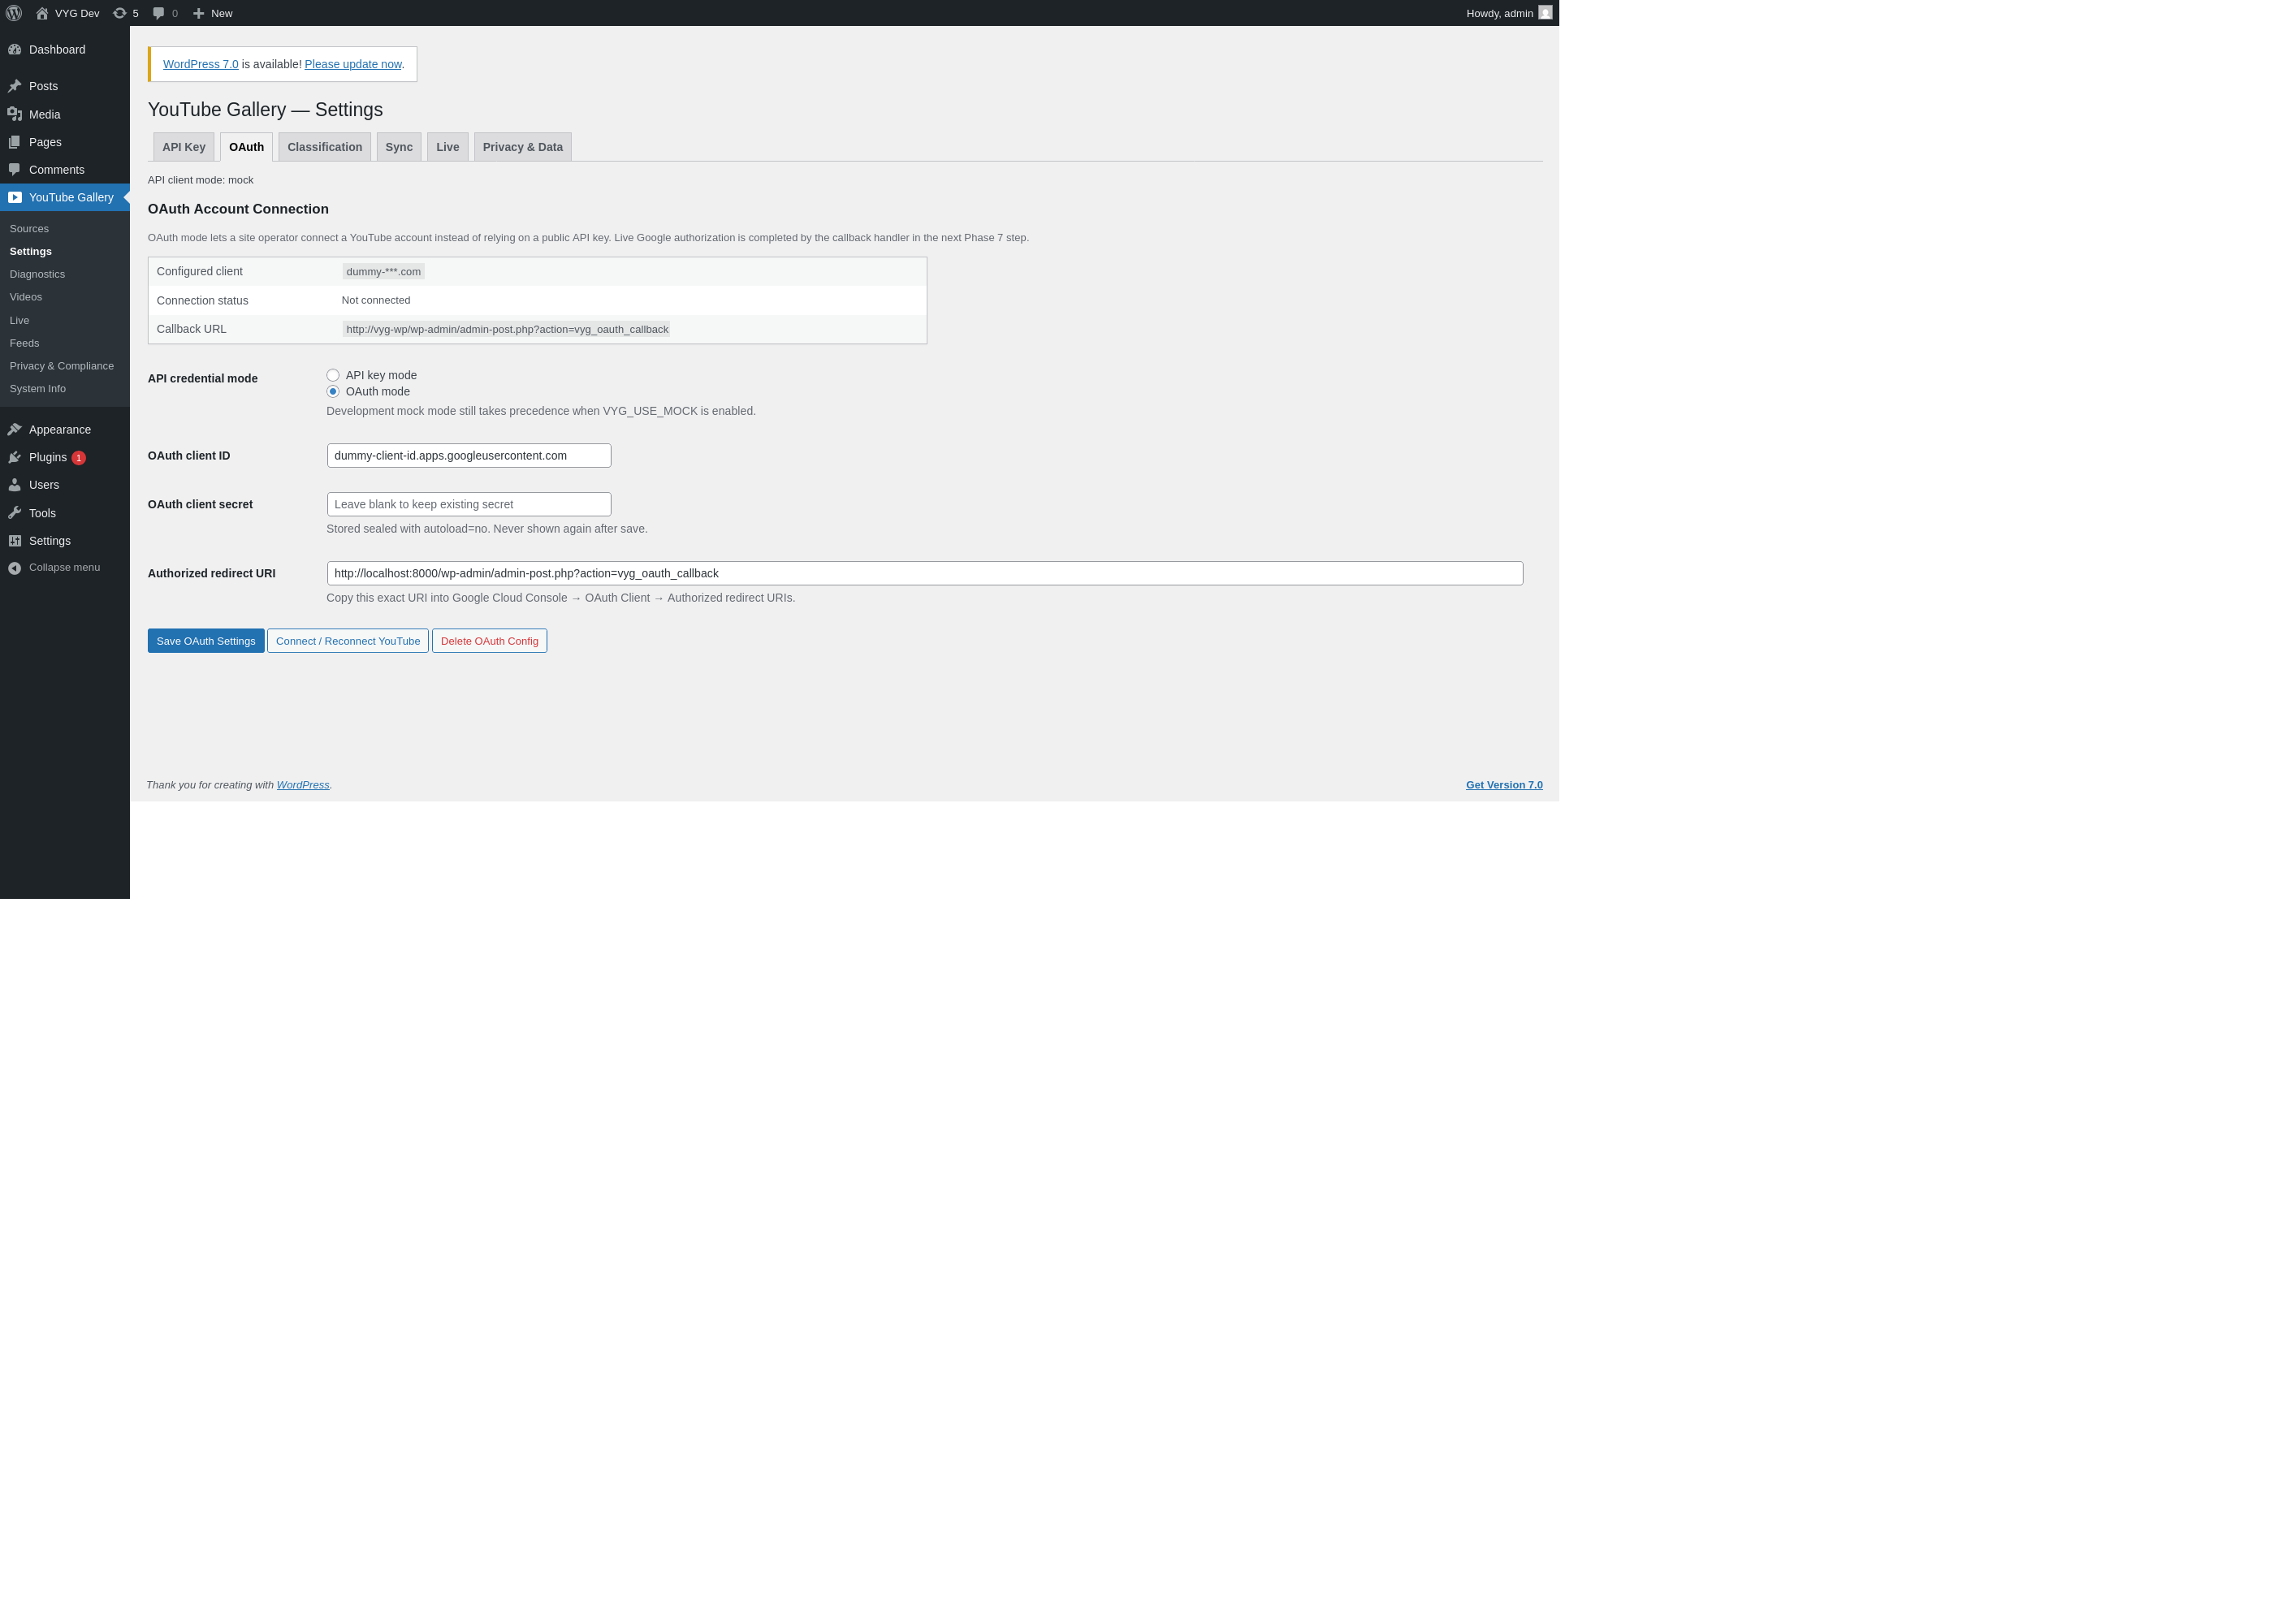
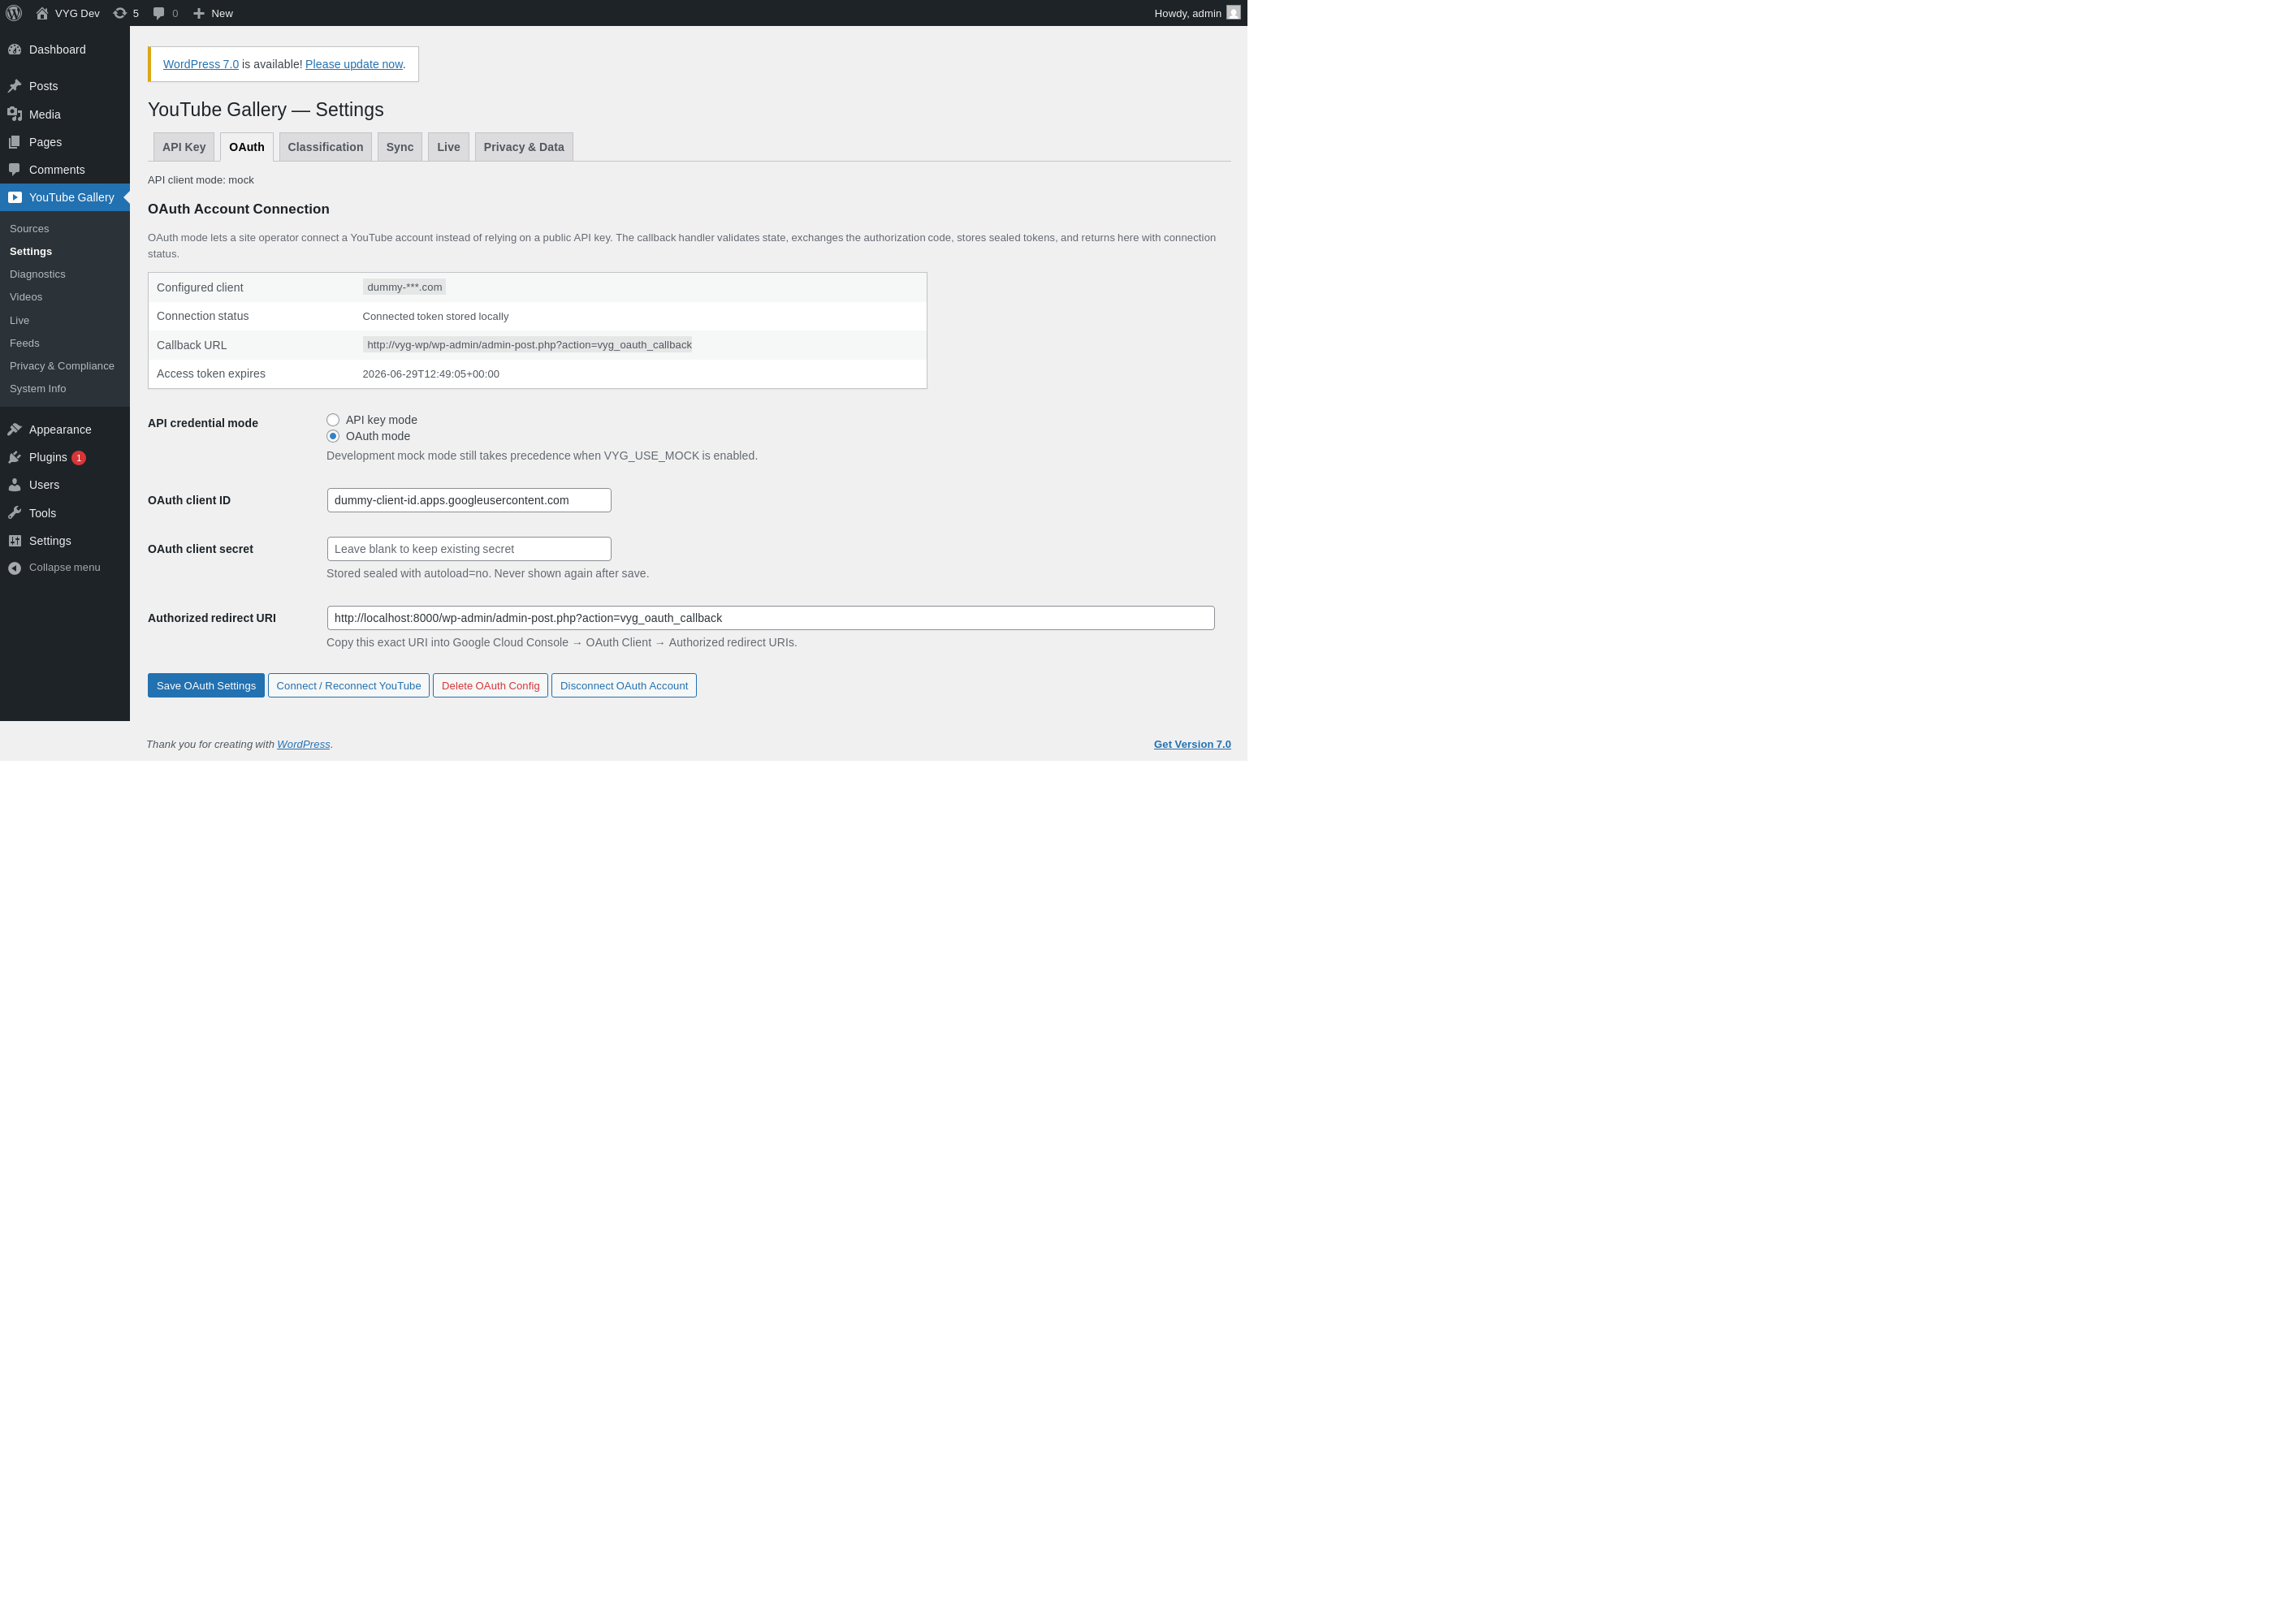
phase-7: add OAuth disconnect flow
- Add OAuth disconnect admin-post handler and settings link
- Revoke Google OAuth token when possible and always delete local token state
- Reset api_mode to api_key after OAuth disconnect
- Make global Privacy disconnect clear OAuth tokens while preserving local metadata
- Add mocked revoke success/failure cleanup tests
- Refresh Camofox OAuth screenshot with connected disconnect controls

Validation:
- php -l touched PHP files inside vyg-wp: no syntax errors
- make test-unit: 193 tests, 495 assertions
- live no-real-Google smoke: dummy OAuth tokens sealed, disconnect URL registered, cleanup verified

diff --git a/src/Admin/OAuthController.php b/src/Admin/OAuthController.php
@@ -31,6 +31,7 @@ defined( 'ABSPATH' ) || exit;
 final class OAuthController {
 
     public const NONCE_ACTION_CONNECT = 'vyg_oauth_connect';
+    public const NONCE_ACTION_DISCONNECT = 'vyg_oauth_disconnect';
 
     public function __construct(
         private readonly OAuthClient $oauth,
@@ -46,6 +47,16 @@ final class OAuthController {
                 admin_url( 'admin-post.php' )
             ),
             self::NONCE_ACTION_CONNECT
+        );
+    }
+
+    public function disconnect_url(): string {
+        return wp_nonce_url(
+            add_query_arg(
+                array( 'action' => 'vyg_oauth_disconnect' ),
+                admin_url( 'admin-post.php' )
+            ),
+            self::NONCE_ACTION_DISCONNECT
         );
     }
 
@@ -116,6 +127,28 @@ final class OAuthController {
         }
     }
 
+
+    /**
+     * Revoke the Google token if possible, then always remove local token state.
+     */
+    public function disconnect_redirect_url(): string {
+        $revoked = false;
+        try {
+            $revoked = $this->oauth->revoke_token( '' );
+        } catch ( ApiException $e ) {
+            $this->logger->warning( 'OAuth disconnect revoke failed; deleting local token state anyway', array(
+                'api_error_code' => $e->api_error_code(),
+                'message'        => $e->getMessage(),
+            ) );
+        }
+
+        $this->tokens->delete_tokens();
+        $this->settings->set( 'api_mode', 'api_key' );
+        $this->logger->info( 'OAuth disconnected via admin', array( 'revoked' => $revoked ) );
+
+        return $this->settings_url( $revoked ? 'oauth_revoked' : 'oauth_disconnected' );
+    }
+
     public function handle_connect(): void {
         if ( ! current_user_can( AdminMenu::REQUIRED_CAP ) ) {
             wp_die( esc_html__( 'Insufficient permissions.', 'vector-youtube-gallery' ) );
@@ -142,6 +175,18 @@ final class OAuthController {
             wp_die( esc_html__( 'Insufficient permissions.', 'vector-youtube-gallery' ) );
         }
         wp_safe_redirect( $this->callback_redirect_url( wp_unslash( $_GET ) ) );
+        exit;
+    }
+
+    public function handle_disconnect(): void {
+        if ( ! current_user_can( AdminMenu::REQUIRED_CAP ) ) {
+            wp_die( esc_html__( 'Insufficient permissions.', 'vector-youtube-gallery' ) );
+        }
+        $nonce = isset( $_GET['_wpnonce'] ) ? sanitize_text_field( wp_unslash( $_GET['_wpnonce'] ) ) : '';
+        if ( ! wp_verify_nonce( $nonce, self::NONCE_ACTION_DISCONNECT ) ) {
+            wp_die( esc_html__( 'Nonce check failed.', 'vector-youtube-gallery' ) );
+        }
+        wp_safe_redirect( $this->disconnect_redirect_url() );
         exit;
     }
 

diff --git a/tests/unit/Admin/OAuthControllerTest.php b/tests/unit/Admin/OAuthControllerTest.php
@@ -114,6 +114,34 @@ final class OAuthControllerTest extends TestCase {
         $this->assertSame( 'Connected Test Channel', $stored['connected_account']['channel_title'] );
         $this->assertSame( 'oauth', $this->settings->get( 'api_mode' ) );
     }
+
+    public function test_disconnect_revokes_refresh_token_deletes_local_tokens_and_returns_api_key_mode(): void {
+        $this->tokens->store_tokens( 'access-token', 'refresh-token', 3600 );
+        $this->settings->set( 'api_mode', 'oauth' );
+        $this->http->queuePost( 200, array() );
+
+        $redirect = $this->controller->disconnect_redirect_url();
+
+        $this->assertStringContainsString( 'vyg_notice=oauth_revoked', $redirect );
+        $this->assertCount( 1, $this->http->posts );
+        $this->assertSame( 'https://oauth2.googleapis.com/revoke', $this->http->posts[0]['url'] );
+        $this->assertSame( 'refresh-token', $this->http->posts[0]['args']['body']['token'] );
+        $this->assertNull( $this->tokens->get_tokens() );
+        $this->assertSame( 'api_key', $this->settings->get( 'api_mode' ) );
+    }
+
+    public function test_disconnect_deletes_local_tokens_even_when_revoke_fails(): void {
+        $this->tokens->store_tokens( 'access-token', 'refresh-token', 3600 );
+        $this->settings->set( 'api_mode', 'oauth' );
+        $this->http->queuePost( 500, array( 'error' => 'temporarily_unavailable' ) );
+
+        $redirect = $this->controller->disconnect_redirect_url();
+
+        $this->assertStringContainsString( 'vyg_notice=oauth_disconnected', $redirect );
+        $this->assertCount( 1, $this->http->posts );
+        $this->assertNull( $this->tokens->get_tokens() );
+        $this->assertSame( 'api_key', $this->settings->get( 'api_mode' ) );
+    }
 }
 
 final class CallbackFakeHttp {

diff --git a/src/Compliance/DisconnectManager.php b/src/Compliance/DisconnectManager.php
@@ -17,7 +17,9 @@ declare(strict_types=1);
 
 namespace VectorYT\Gallery\Compliance;
 
+use VectorYT\Gallery\Settings\OAuthTokenRepository;
 use VectorYT\Gallery\Settings\SecretsRepository;
+use VectorYT\Gallery\Settings\SettingsRepository;
 use VectorYT\Gallery\YouTube\ApiClientInterface;
 use VectorYT\Gallery\Logging\Logger;
 
@@ -29,12 +31,14 @@ final class DisconnectManager {
         private readonly SecretsRepository $secrets,
         private readonly ApiClientInterface $api,
         private readonly Logger $logger,
+        private readonly OAuthTokenRepository $oauth_tokens,
+        private readonly SettingsRepository $settings,
     ) {}
 
     /**
      * Disconnect: revoke API key + flip all sources to disconnected.
      *
-     * @return array{revoked:bool, sources_disconnected:int}
+     * @return array{revoked:bool, oauth_tokens_deleted:bool, sources_disconnected:int}
      */
     public function disconnect_all(): array {
         global $wpdb;
@@ -47,8 +51,12 @@ final class DisconnectManager {
             $this->logger->warning( 'DisconnectManager: revoke_token threw', array( 'error' => $e->getMessage() ) );
         }
 
-        // 2. Delete the stored API key from options.
+        // 2. Delete locally-stored credentials. OAuth revoke is best-effort;
+        // local disconnect must still clear token material if the remote revoke
+        // endpoint is unavailable or returns an error.
         $this->secrets->delete_api_key();
+        $oauth_tokens_deleted = $this->oauth_tokens->delete_tokens();
+        $this->settings->set( 'api_mode', 'api_key' );
 
         // 3. Mark every source as disconnected.
         $error_payload = wp_json_encode( array(
@@ -65,10 +73,15 @@ final class DisconnectManager {
             gmdate( 'Y-m-d H:i:s' )
         ) );
 
-        $this->logger->warning( 'DisconnectManager: disconnected', array( 'revoked' => $revoked, 'sources' => $count ) );
+        $this->logger->warning( 'DisconnectManager: disconnected', array(
+            'revoked' => $revoked,
+            'oauth_tokens_deleted' => $oauth_tokens_deleted,
+            'sources' => $count,
+        ) );
 
         return array(
             'revoked'              => $revoked,
+            'oauth_tokens_deleted' => $oauth_tokens_deleted,
             'sources_disconnected' => $count,
         );
     }

diff --git a/src/Admin/SettingsPage.php b/src/Admin/SettingsPage.php
@@ -233,7 +233,9 @@ final class SettingsPage {
             <?php elseif ( 'oauth_deleted' === $notice ) : ?>
                 <div class="notice notice-success is-dismissible"><p><?php echo esc_html__( 'OAuth client configuration and local tokens deleted.', 'vector-youtube-gallery' ); ?></p></div>
             <?php elseif ( 'oauth_disconnected' === $notice ) : ?>
-                <div class="notice notice-success is-dismissible"><p><?php echo esc_html__( 'Local OAuth token state deleted. Google revocation is handled by the disconnect flow in the next Phase 7 step.', 'vector-youtube-gallery' ); ?></p></div>
+                <div class="notice notice-warning is-dismissible"><p><?php echo esc_html__( 'Local OAuth token state deleted. Google token revocation was attempted but did not confirm success.', 'vector-youtube-gallery' ); ?></p></div>
+            <?php elseif ( 'oauth_revoked' === $notice ) : ?>
+                <div class="notice notice-success is-dismissible"><p><?php echo esc_html__( 'Google OAuth token revoked and local token state deleted.', 'vector-youtube-gallery' ); ?></p></div>
             <?php elseif ( 'oauth_connected' === $notice ) : ?>
                 <div class="notice notice-success is-dismissible"><p><?php echo esc_html__( 'YouTube OAuth account connected.', 'vector-youtube-gallery' ); ?></p></div>
             <?php elseif ( 'oauth_error' === $notice ) : ?>
@@ -437,7 +439,7 @@ final class SettingsPage {
                         <button type="submit" name="vyg_oauth_action" value="delete_config" class="button button-link-delete" onclick="return confirm('<?php echo esc_js( __( 'Delete OAuth client configuration and local OAuth tokens?', 'vector-youtube-gallery' ) ); ?>');"><?php echo esc_html__( 'Delete OAuth Config', 'vector-youtube-gallery' ); ?></button>
                     <?php endif; ?>
                     <?php if ( $oauth_status['connected'] ) : ?>
-                        <button type="submit" name="vyg_oauth_action" value="disconnect_local" class="button"><?php echo esc_html__( 'Disconnect Local Token State', 'vector-youtube-gallery' ); ?></button>
+                        <a class="button" href="<?php echo esc_url( wp_nonce_url( add_query_arg( array( 'action' => 'vyg_oauth_disconnect' ), admin_url( 'admin-post.php' ) ), 'vyg_oauth_disconnect' ) ); ?>" onclick="return confirm('<?php echo esc_js( __( 'Revoke the Google OAuth token and delete local OAuth token state?', 'vector-youtube-gallery' ) ); ?>');"><?php echo esc_html__( 'Disconnect OAuth Account', 'vector-youtube-gallery' ); ?></a>
                     <?php endif; ?>
                 </p>
             </form>

diff --git a/src/Plugin.php b/src/Plugin.php
@@ -338,7 +338,7 @@ final class Plugin {
             )
         );
         $c->set( 'compliance.retention', static fn( Container $c ): DataRetentionManager => new DataRetentionManager( $c->get( 'settings' ), $c->get( 'logger' ) ) );
-        $c->set( 'compliance.disconnect', static fn( Container $c ): DisconnectManager => new DisconnectManager( $c->get( 'secrets' ), $c->get( 'youtube.api' ), $c->get( 'logger' ) ) );
+        $c->set( 'compliance.disconnect', static fn( Container $c ): DisconnectManager => new DisconnectManager( $c->get( 'secrets' ), $c->get( 'youtube.api' ), $c->get( 'logger' ), $c->get( 'oauth.tokens' ), $c->get( 'settings' ) ) );
         $c->set( 'compliance.policy', static fn(): PrivacyPolicyGenerator => new PrivacyPolicyGenerator() );
         $c->set(
             'admin.privacy',
@@ -455,6 +455,7 @@ final class Plugin {
         // Phase 7: OAuth connect/callback admin-post handlers.
         add_action( 'admin_post_vyg_oauth_connect', static fn() => $c->get( 'admin.oauth' )->handle_connect() );
         add_action( 'admin_post_vyg_oauth_callback', static fn() => $c->get( 'admin.oauth' )->handle_callback() );
+        add_action( 'admin_post_vyg_oauth_disconnect', static fn() => $c->get( 'admin.oauth' )->handle_disconnect() );
 
         // Phase 6: daily retention sweep via WP-Cron.
         add_action( 'vyg_cron_data_retention', static function () use ( $c ): void {

diff --git a/src/Admin/PrivacyPage.php b/src/Admin/PrivacyPage.php
@@ -205,7 +205,7 @@ final class PrivacyPage {
             </form>
 
             <h2><?php echo esc_html__( 'Disconnect from YouTube', 'vector-youtube-gallery' ); ?></h2>
-            <p><?php echo esc_html__( 'Removes the stored API key and marks all sources as disconnected. Video metadata stays in the database but will not be refreshed.', 'vector-youtube-gallery' ); ?></p>
+            <p><?php echo esc_html__( 'Revokes the connected OAuth token when present, removes stored API/OAuth credentials, marks all sources as disconnected, and keeps local video metadata in the database.', 'vector-youtube-gallery' ); ?></p>
             <form method="post" onsubmit="return confirm('<?php echo esc_js( __( 'Disconnect from YouTube?', 'vector-youtube-gallery' ) ); ?>');">
                 <?php wp_nonce_field( self::NONCE_ACTION, self::NONCE_FIELD ); ?>
                 <input type="hidden" name="vyg_privacy_op" value="disconnect" />

diff --git a/DEV-CHECKLIST.md b/DEV-CHECKLIST.md
@@ -13,9 +13,9 @@
 ## Current Development Status
 
 - Current phase: **Phase 7 — OAuth Account Connection** (IN PROGRESS)
-- Current sub-phase: 7.6 (OAuth disconnect/revoke flow)
-- Last completed item: 7.5 — OAuth connect/callback handler with state validation, auth-code exchange, connected channel identity capture, safe admin redirects, and no-real-Google-call smoke validation
-- Next actionable item: Begin Phase 7.6 — implement disconnect flow that revokes the Google token, deletes local OAuth tokens, preserves local metadata, and reports status safely
+- Current sub-phase: 7.7 (OAuth-mode source add/resolution)
+- Last completed item: 7.6 — OAuth disconnect/revoke flow with best-effort Google revoke, guaranteed local token cleanup, API-key fallback mode, Privacy disconnect integration, and Camofox connected-state screenshot
+- Next actionable item: Begin Phase 7.7 — ensure source add/resolution can use OAuth mode for private/unlisted channel-access cases while retaining public API-key behavior
 - Blocked items: OAuth live API E2E requires Google Cloud OAuth client ID/secret and redirect URI approval
 - Deferred items: none; all former Phase 7+ deferrals have been expanded into concrete Phases 7–13 below
 
@@ -170,7 +170,7 @@ Preferred capture path is now `scripts/capture-camofox-screenshots.py`: real Cam
 | Videos moderation (search, filter, hide/pin/reclassify) | ![](screenshots/camofox/07-videos.png) | 216 KB |
 | System Info (copy-to-clipboard, table counts, cron events) | ![](screenshots/camofox/08-system-info.png) | 259 KB |
 | Front-end gallery — feed-by-uuid shortcode rendering 2 videos with real thumbnails | ![](screenshots/camofox/09-frontend-feed.png) | 252 KB |
-| Settings OAuth tab — mode selector, sealed client config status, callback URL, enabled connect/reconnect, delete controls | ![](screenshots/camofox/10-settings-oauth.png) | 275 KB |
+| Settings OAuth tab — mode selector, sealed client config status, callback URL, enabled connect/reconnect, disconnect/delete controls | ![](screenshots/camofox/10-settings-oauth.png) | 283 KB |
 
 Notes from the live browser review:
 - Camofox had to be attached to `vyg_net`; otherwise `browser_navigate`/Camofox cannot reach `vyg-wp`.
@@ -186,11 +186,11 @@ Goal: add first-class OAuth support for operators who prefer channel-owner autho
 - [x] 7.3 `src/Settings/OAuthTokenRepository.php` stores refresh/access tokens encrypted/sealed; never autoload; never logs token material; `oauth.tokens` service registered in `Plugin.php`
 - [x] 7.4 Settings UI adds OAuth tab: client ID/secret status, callback URL, save/delete config, local disconnect, enabled connect/reconnect link, and API-key/OAuth mode selector; Camofox screenshot captured at `screenshots/camofox/10-settings-oauth.png`
 - [x] 7.5 OAuth callback handler validates nonce/state, exchanges auth code, stores tokens, records connected account/channel identity, and redirects to admin status page; live smoke verifies authorization URL/state hashing without calling Google token/API endpoints
-- [ ] 7.6 Disconnect flow revokes OAuth token via Google endpoint, deletes stored tokens, flips sources to disconnected where appropriate, and preserves local metadata unless clean-uninstall is enabled
+- [x] 7.6 Disconnect flow revokes OAuth token via Google endpoint where possible, always deletes local OAuth tokens, flips global disconnect back to API-key mode, preserves local metadata unless clean-uninstall is enabled, and keeps all-source disconnection behavior in Privacy/Compliance
 - [ ] 7.7 Source add/resolution can use OAuth mode for private/unlisted channel-access cases while retaining public API-key behavior
 - [ ] 7.8 Diagnostics page shows OAuth health: connected account, token age, next refresh, last refresh error, revoked/expired state, and redacted token metadata only
-- [~] 7.9 Unit tests: token repository + OAuth client refresh behavior + callback state validation complete; disconnect revocation integration and diagnostics redaction tests remain with 7.6–7.8
-- [~] 7.10 E2E/browser verification: connect-mode UI renders through Camofox and no-real-Google-call authorization smoke works locally; live OAuth flow remains blocked unless real Google client creds are supplied
+- [~] 7.9 Unit tests: token repository + OAuth client refresh behavior + callback state validation + disconnect revoke/failure cleanup complete; diagnostics redaction tests remain with 7.8
+- [~] 7.10 E2E/browser verification: connect/disconnect-mode UI renders through Camofox and no-real-Google-call authorization/disconnect smoke works locally; live OAuth flow remains blocked unless real Google client creds are supplied
 
 ### Phase 8 — Multi-source Feeds + Feed Portability
 
@@ -844,3 +844,36 @@ Goal: prepare the plugin for real distribution while keeping the core usable for
   - Phase 7.5 is complete locally and safely without real OAuth credentials. Live Google OAuth E2E remains blocked until the operator supplies real client credentials through the admin UI.
 - Next recommended action:
   - Begin Phase 7.6: implement token revocation/disconnect flow using `OAuthClient::revoke_token()`, delete local OAuth tokens, preserve cached metadata, and add mocked revoke integration tests.
+
+### 2026-06-29 — Phase 7.6 OAuth disconnect/revoke flow
+
+- Trigger: "Continue"
+- Mode: Development Execution Mode (Phase 7 — OAuth Account Connection)
+- Current phase: Phase 7 — OAuth Account Connection
+- Selected task: 7.6 OAuth disconnect/revoke flow.
+- Work completed:
+  - Added `OAuthController::disconnect_url()`, `disconnect_redirect_url()`, and `handle_disconnect()`.
+  - Registered `admin_post_vyg_oauth_disconnect` in `Plugin.php`.
+  - Settings OAuth tab now shows `Disconnect OAuth Account` when connected; it attempts Google revoke and always deletes local OAuth token state.
+  - `DisconnectManager` now clears local OAuth tokens and resets `api_mode=api_key` during the global Privacy/Compliance disconnect path while preserving local metadata and retaining all-source status disconnection.
+  - Privacy/Compliance copy now describes API-key + OAuth credential removal and local metadata preservation.
+  - Added unit tests for successful OAuth revoke and failed-revoke local cleanup.
+  - Captured updated Camofox OAuth settings screenshot showing connected status plus Connect/Reconnect, Delete Config, and Disconnect OAuth Account controls.
+- Files changed:
+  - `src/Admin/OAuthController.php`
+  - `src/Admin/SettingsPage.php`
+  - `src/Admin/PrivacyPage.php`
+  - `src/Compliance/DisconnectManager.php`
+  - `src/Plugin.php`
+  - `tests/unit/Admin/OAuthControllerTest.php`
+  - `screenshots/camofox/10-settings-oauth.png`
+  - `DEV-CHECKLIST.md`
+- Tests run:
+  - `php -l` inside `vyg-wp` for touched PHP files → no syntax errors
+  - `make test-unit` → **193 tests, 495 assertions, 0 failures, 0 errors**
+  - Live WP smoke: seeded dummy sealed OAuth config/tokens, verified `admin.oauth` disconnect URL, verified raw token storage did not contain dummy tokens, captured Camofox screenshot, then cleaned all dummy OAuth state without calling Google.
+  - Cleanup verification: `vyg_oauth_%` options `[]`, `api_mode=api_key`, `siteurl/home=http://localhost:8000`.
+- Result:
+  - Phase 7.6 is complete locally and safely without real OAuth credentials. Google revoke is best-effort; local token cleanup is guaranteed.
+- Next recommended action:
+  - Begin Phase 7.7: make source add/resolution explicitly use OAuth mode for connected-account/private access cases while preserving public API-key behavior.